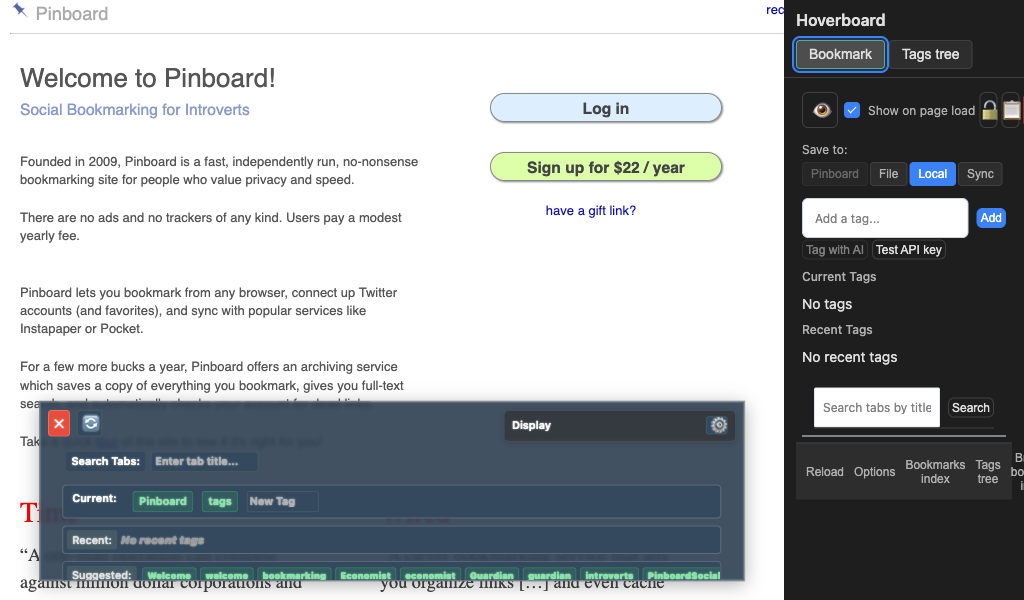
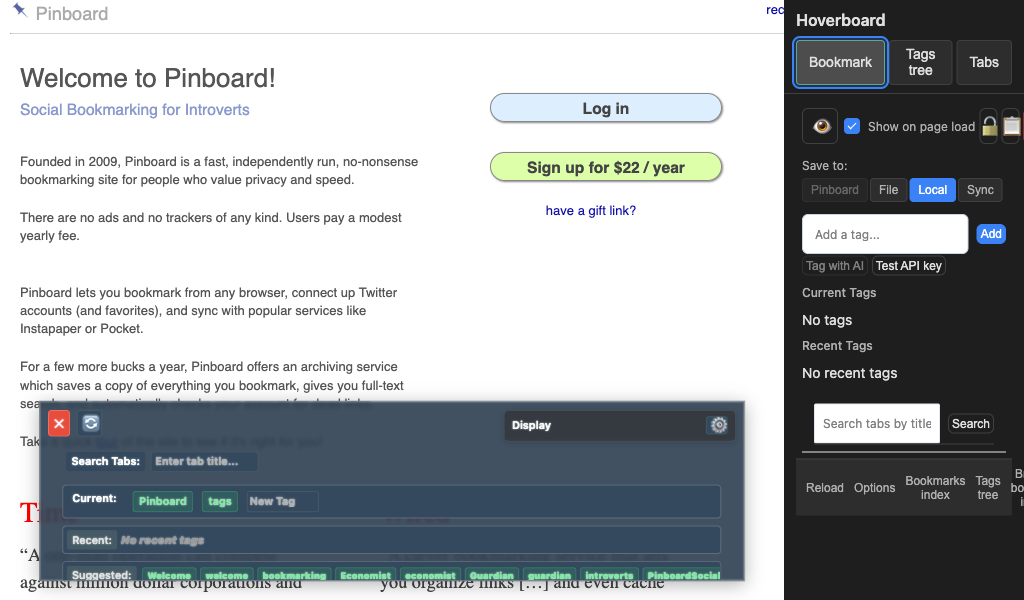
docs(side-panel): all three tabs and images
- Rename side panel section to include Tabs; add subsection and image for Tabs tab
- Extend screenshots-placeholder.js to capture side-panel-tabs.png at 240px
- README Screenshots section: mention Bookmark, Tags tree, and Tabs

Changed region(s): [[0.75, 0.06, 1.0, 0.84]]

diff --git a/scripts/screenshots-placeholder.js b/scripts/screenshots-placeholder.js
@@ -70,6 +70,8 @@ const SIDE_PANEL_READY_SELECTOR = '#treeContainer, #emptyState'
 const SIDE_PANEL_BOOKMARK_READY = '#bookmarkPanel [data-popup-ref="mainInterface"], #bookmarkPanel [data-popup-ref="loadingState"]'
 const SIDE_PANEL_TAB_BOOKMARK = '.side-panel-tab[data-tab="bookmark"]'
 const SIDE_PANEL_TAB_TAGS_TREE = '.side-panel-tab[data-tab="tagsTree"]'
+const SIDE_PANEL_TAB_BROWSER_TABS = '.side-panel-tab[data-tab="browserTabs"]'
+const SIDE_PANEL_BROWSER_TABS_READY = '#browserTabsPanel .browser-tabs-header'
 // [IMPL-SCREENSHOT_MODE] Side panel captures at 240px width so README images match real Chrome side panel proportions
 const SIDE_PANEL_VIEWPORT = { width: 240, height: 600 }
 // Viewport for Pinboard overlay page so composite (pinboard + side panel) has predictable dimensions
@@ -245,6 +247,17 @@ async function main () {
     fullPage: true
   })
   console.log('Saved: images/side-panel-tags-tree.png')
+
+  // 5c) Tabs tab: switch tab, wait for panel content, capture [IMPL-SCREENSHOT_MODE] side-panel-tabs.png
+  await sidePanelPage.locator(SIDE_PANEL_TAB_BROWSER_TABS).click()
+  await sidePanelPage.waitForTimeout(2000)
+  await sidePanelPage.locator(SIDE_PANEL_BROWSER_TABS_READY).first().waitFor({ state: 'attached', timeout: 10000 })
+  await sidePanelPage.waitForTimeout(500)
+  await sidePanelPage.screenshot({
+    path: path.join(imagesDir, 'side-panel-tabs.png'),
+    fullPage: true
+  })
+  console.log('Saved: images/side-panel-tabs.png')
   await sidePanelPage.close()
 
   // 6) Browser Bookmark Import – table or empty state (uses chrome.bookmarks.getTree from profile)

diff --git a/README.md b/README.md
@@ -62,19 +62,29 @@ The configuration page provides comprehensive settings for customizing the exten
   - URL hash stripping when saving bookmarks
   - Auto-close timeout configuration (currently disabled at 0ms)
 
-### Side Panel – Bookmark and Tags Tree
+### Side Panel – Bookmark, Tags Tree, and Tabs
 
 ![Pinboard.in with side panel (Bookmark tab)](images/pinboard-side-panel-bookmark.png)
 
 The snapshot above shows **pinboard.in** in the main content area with the Hoverboard **side panel** open and the **Bookmark** tab visible (popup-equivalent: quick actions, storage, tag management, search).
 
+#### Bookmark tab
+
 ![Side Panel – Bookmark tab](images/side-panel-bookmark.png)
 
 Close-up of the side panel **Bookmark** tab only.
 
+#### Tags tree tab
+
 ![Side Panel – Tags tree tab](images/side-panel-tags-tree.png)
 
 The snapshot above shows the side panel **Tags tree** tab with placeholder tag and bookmark data (tag selector and collapsible tree with sample URLs).
+
+#### Tabs tab
+
+![Side Panel – Tabs tab](images/side-panel-tabs.png)
+
+The **Tabs** tab lists browser tabs with title, URL, and referrer. It includes a **Current window / All windows** toggle, **Search in** scope (Tab info, Page text, or Important tags), a filter input, **Copy URLs**, **Copy Records**, and **Close visible tabs**; each row shows window id and tab id.
 
 ([REQ-SIDE_PANEL_POPUP_EQUIVALENT], [ARCH-SIDE_PANEL_TABS], [IMPL-SIDE_PANEL_TABS], [IMPL-SIDE_PANEL_BOOKMARK], [REQ-SIDE_PANEL_BROWSER_TABS], [IMPL-SIDE_PANEL_BROWSER_TABS]) The **Chrome side panel** has three tabs: **Bookmark**, **Tags tree**, and **Tabs**. The **Tabs** tab lists browser tabs (title, URL, referrer) with a **Current window / All windows** toggle (default: current window), a **Search in** scope (**Tab info** for title/URL/referrer, **Page text** for body text, or **Important tags** for headings, alt, meta description, etc.), a case-insensitive filter, a button to copy visible tab URLs to the clipboard (with success count), and a button to close visible tabs after confirmation (with success count). Each tab row shows window id and tab id for identification. Open the panel from the popup footer via **Tags tree**. In the panel you can switch between **Bookmark** (popup-equivalent UI for the current tab: quick actions, storage, tag management, search) and **Tags tree** (hierarchical view). The last-selected tab is persisted. Tab content fills the available vertical space (full panel height and width, not popup dimensions). The **Bookmark** tab refreshes promptly when the active browser tab changes or the tab's page completes (like the badge), and when you switch to the Bookmark tab it shows the current tab's bookmark. When you open the panel with the **Tags tree** tab visible (restored tab) or switch to it, the tag selector is set to the current bookmark's tags and the tree shows only bookmarks that share at least one of those tags. In the Bookmark tab, the **Tags tree** footer button switches to the Tags tree tab.
 
@@ -272,7 +282,7 @@ Hoverboard is a fully-featured Chrome extension that provides seamless bookmark 
 
 ## 📸 Screenshots
 
-Screenshots are generated with **placeholder bookmark data** (no live account) and show the extension in **dark theme**. Regenerate with `npm run screenshots:placeholder` (see [Development](#development)). The script awaits storage seed, waits for the popup to signal content ready, and checks the **Local (L)** store on the bookmarks index so seeded bookmarks are visible. Side panel images (Bookmark and Tags tree tabs) are captured at **240px width** to match real Chrome side panel proportions. The script also produces **pinboard-side-panel-bookmark.png** (Pinboard.in page with the side panel Bookmark tab visible). You can use a custom seed file with `--seed=path/to/seed.json` or `SCREENSHOT_SEED_FILE=path node scripts/screenshots-placeholder.js`; see `scripts/screenshot-seed.example.json` for the expected JSON shape.
+Screenshots are generated with **placeholder bookmark data** (no live account) and show the extension in **dark theme**. Regenerate with `npm run screenshots:placeholder` (see [Development](#development)). The script awaits storage seed, waits for the popup to signal content ready, and checks the **Local (L)** store on the bookmarks index so seeded bookmarks are visible. Side panel images (Bookmark, Tags tree, and Tabs tabs) are captured at **240px width** to match real Chrome side panel proportions. The script also produces **pinboard-side-panel-bookmark.png** (Pinboard.in page with the side panel Bookmark tab visible) and **side-panel-tabs.png** (Tabs tab). You can use a custom seed file with `--seed=path/to/seed.json` or `SCREENSHOT_SEED_FILE=path node scripts/screenshots-placeholder.js`; see `scripts/screenshot-seed.example.json` for the expected JSON shape.
 
 ### Popup (dark theme)
 

diff --git a/CHANGELOG.md b/CHANGELOG.md
@@ -9,6 +9,8 @@ and this project adheres to [Semantic Versioning](https://semver.org/spec/v2.0.0
 
 ### Added
 
+- **Side panel README and screenshots** ([IMPL-SCREENSHOT_MODE]) – Side panel section in README now lists all three tabs (Bookmark, Tags tree, Tabs) with subsections and images. Screenshot script extended to capture the Tabs tab (`side-panel-tabs.png` at 240px width). Section retitled to "Side Panel – Bookmark, Tags Tree, and Tabs"; README Screenshots section updated to mention all three side panel images.
+
 - **Side panel Tabs tab: search scope (Tab info / Page text / Important tags)** ([REQ-SIDE_PANEL_BROWSER_TABS], [ARCH-SIDE_PANEL_BROWSER_TABS], [IMPL-SIDE_PANEL_BROWSER_TABS], [PROC-TIED_DEV_CYCLE]) – In the side panel **Tabs** tab you can choose what the filter searches: **Tab info** (default: title, URL, referrer), **Page text** (page body text), or **Important tags** (concatenated text from document title, meta description, og:title, h1–h3, img alt, link titles). When **Page text** or **Important tags** is selected, the panel fetches that data from each tab via the service worker (executeScript per tab) and merges it; a loading state is shown during fetch. Filter is scope-aware and uses the same search box. New message types: `getTabsPageText` and `getTabsImportantTags`. Unit tests: scope-aware `filterBrowserTabs`, pageText/importantTags filter, panel merge and filter when scope is Page text; SW messaging tests for the new message types. TIED: REQ/ARCH/IMPL extended with search-scope criteria and essence_pseudocode.
 
 - **Test coverage review and minimization** ([PROC-TEST_STRATEGY], [IMPL-TESTING], [REQ-MODULE_VALIDATION]) – Coverage gates, gap report, test strategy, integration tests, and targeted unit tests to minimize untested code (Chrome extension `src/` only; Safari excluded). **Coverage and gates:** Jest `coverageThreshold` (global 28% line/branch/function/statement) in `jest.config.js` so CI fails on regressions; `json-summary` reporter for tooling; `scripts/coverage-gap-report.js` lists `src/` files at or below a line-coverage threshold and IMPLs with empty `traceability.tests`; `npm run coverage:gap-report` (optional arg: threshold %). **Test strategy:** New `[PROC-TEST_STRATEGY]` in `tied/processes.md` (E2E for critical journeys; unit+integration cover IMPL/ARCH/REQ; coverage gates and gap report); registered in `semantic-tokens.yaml`. **IMPL traceability:** Test paths added for IMPL-SYNC_BOOKMARK_SERVICE, IMPL-UI_ACTION_CONTRACT, IMPL-CONFIG_MIGRATION, IMPL-MESSAGE_HANDLING, IMPL-BOOKMARK_ROUTER, IMPL-STORAGE_INDEX, IMPL-DOM_UTILITIES, IMPL-BOOKMARK_STATE_SYNC, IMPL-POPUP_BUNDLE; `test_coverage_note` added for 22+ IMPLs with no unit tests (E2E/manual or indirect coverage documented). **Integration tests:** `tests/integration/message-handler-router-storage.integration.test.js` (MessageHandler + BookmarkRouter + StorageIndex + LocalBookmarkService, minimal mocks); `tests/integration/config-manager-load.integration.test.js` (ConfigManager auth and storage mode). **Unit tests:** `message-service.test.js`, `badge-manager.test.js`, `dom-utils.test.js` (newPin, minEmpty), `popup-error-message.test.js`. **Refactor:** Popup error classification extracted to `src/ui/popup/popup-error-message.js` (`getPopupErrorMessage`, `normalizePopupErrorInput`); `popup.js` `handleError` delegates to it. README: coverage script, test strategy, integration tests; CHANGELOG: this entry.
